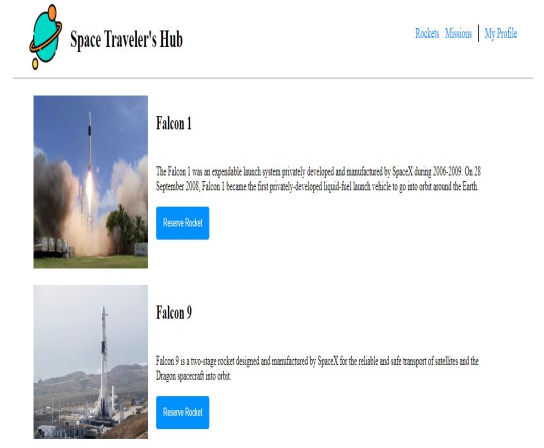
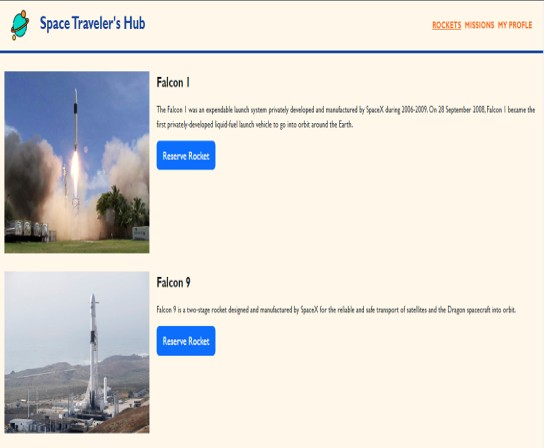
Add new css update

Changed region(s): [[0.0, 0.0, 1.0, 1.0]]

diff --git a/styles.css b/styles.css
@@ -170,8 +170,10 @@ main {
   display: flex;
   justify-content: space-between;
   align-items: center;
-  background-color: white;
+  background-color: rgb(193, 199, 208);
   padding-top: 24px;
+  position: fixed;
+  width: 375px;
 }
 
 .text {
@@ -224,7 +226,7 @@ main {
 .anchor-div a {
   list-style-type: none;
   text-decoration: none;
-  color: #4472e7;
+  color: #f8f8f9;
   font-size: small;
 }
 
@@ -692,7 +694,7 @@ a .btn-two {
 }
 
 .technologies-langu li {
-  background-color: #ebebff;
+  background-color: #172b4d;
   padding: 10px;
   border-radius: 10px;
   font-weight: 500;
@@ -812,8 +814,7 @@ a .btn-two {
     padding-top: 0;
     display: flex;
     position: fixed;
-    background-color: #dcdde0;
-    border-radius: 20px;
+    background-color: rgb(193, 199, 208);
     width: 100%;
   }
 
@@ -925,14 +926,15 @@ a .btn-two {
   }
 
   .technologies-langu li {
-    background-color: #ebebff;
+    /* background-color: #ebebff; */
+    background-color: #130e4e;
     padding: 5px;
     border-radius: 10px;
     font-weight: 500;
     font-family: poppins, sans-serif;
     display: inline-block;
     justify-content: space-between;
-    margin-right: 20px;
+    /* margin-right: 20px; */
     bottom: 105px;
     left: 445px;
   }
@@ -1117,10 +1119,11 @@ a .btn-two {
     margin-top: 15px;
   }
 
-  .anchor-div a {
+  .
+   {
     list-style-type: none;
     text-decoration: none;
-    color: #4472e7;
+    color: #f5f5f6;
     font-size: 10px;
   }
 

diff --git a/app.js b/app.js
@@ -136,9 +136,6 @@ const Openpopup =
                 <li><a href="#">${
                   technologies[2] ? technologies[2] : ''
                 }</a></li>
-                <li><a href="#">${
-                  technologies[3] ? technologies[3] : ''
-                }</a></li>
               </ul>
               <div class="modal-buttons ">
                 <a href='${linktoliveversion}' class="source-btn mr source-desktop">
